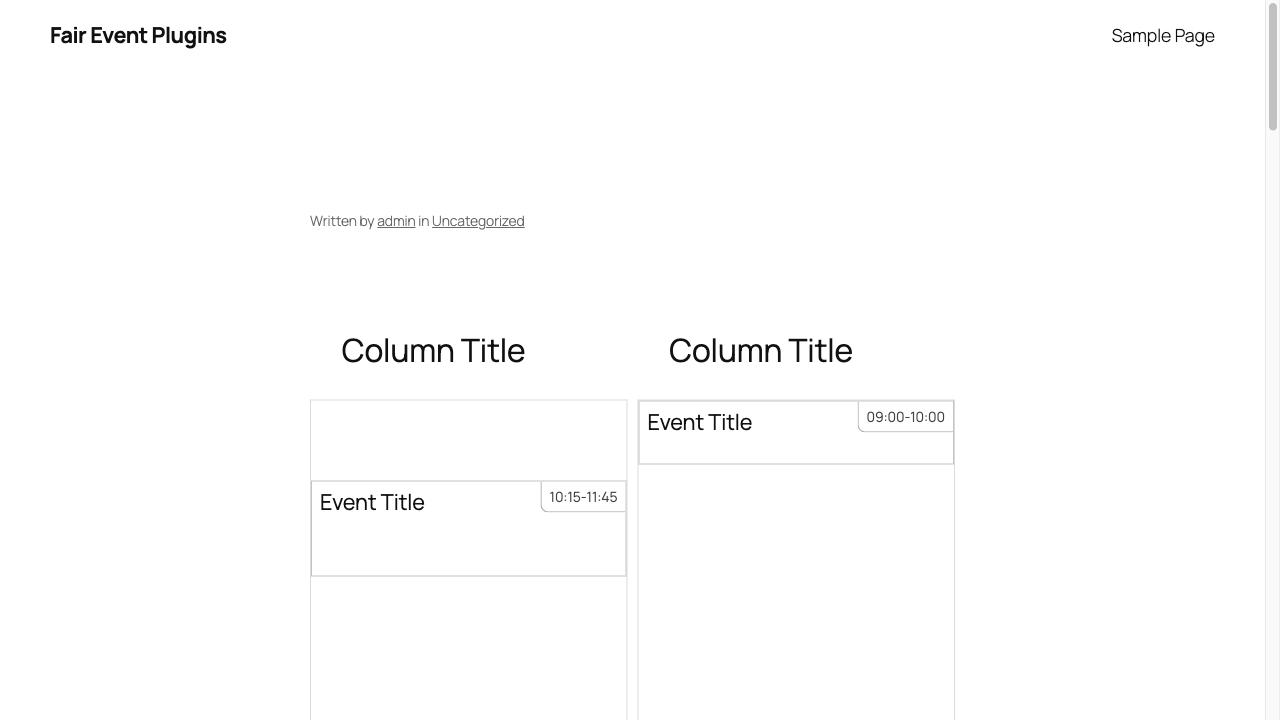
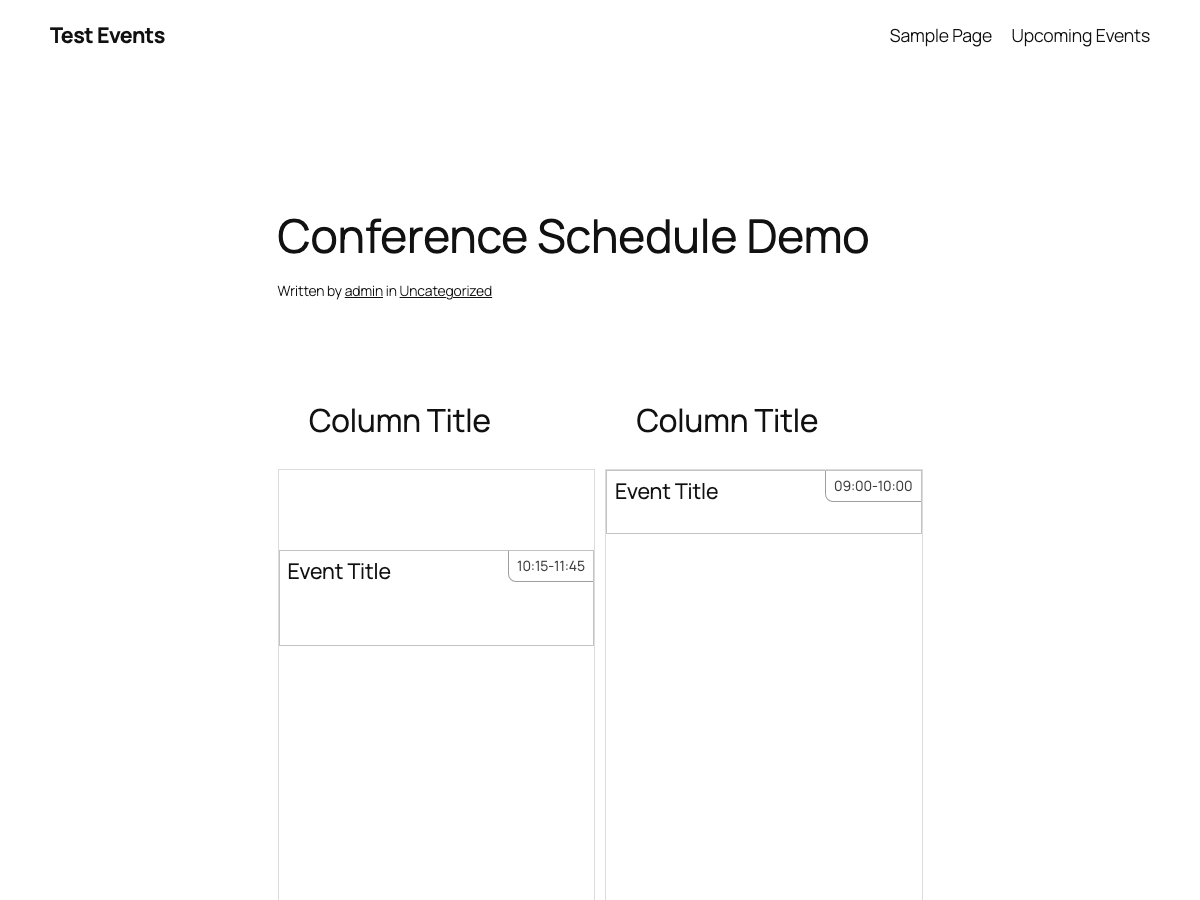
Align fair-timetable screenshot script with fair-events conventions
Scope npm run screenshots to the wordpress-org spec (headless) instead of
running the whole e2e suite headed. Rewrite the spec with the same
apiFetch/hideAdminChrome/idempotent-cleanup helpers as fair-events, fix a
stale "select parent block" click and a clear()+fill() race that could save
an invalid time slot and 500 the /wp/v2/posts endpoint, and regenerate the
demo screenshots.

diff --git a/fair-timetable/e2e/wordpress-org.spec.js b/fair-timetable/e2e/wordpress-org.spec.js
@@ -1,45 +1,131 @@
 import { test, expect } from '@playwright/test';
 
-// WordPress admin credentials - update these for your test environment
 const WP_ADMIN_USER = process.env.WP_ADMIN_USER || 'admin';
 const WP_ADMIN_PASS = process.env.WP_ADMIN_PASS || 'password';
 
-test.describe('WordPress.org Screenshot for Fair Timetable', () => {
-	test.beforeEach(async ({ page }) => {
-		// Login to WordPress admin
-		await page.goto('/wp-admin');
+/**
+ * WordPress.org screenshots for fair-timetable.
+ *
+ * Creates a demo post, inserts a Timetable block (default template: 3
+ * columns, one time slot each), edits the first time slot to demonstrate the
+ * block-editing UX, then publishes and views it on the frontend.
+ *
+ * Output: assets/screenshot-1.png (editor), screenshot-2.png (frontend).
+ */
+
+const VIEWPORT = { width: 1200, height: 900 };
+const DEMO_TITLE = 'Conference Schedule Demo';
+
+/**
+ * Run @wordpress/api-fetch from inside an admin page so the request is
+ * authenticated and nonce'd automatically.
+ */
+async function apiFetch(page, options) {
+	const result = await page.evaluate(async (opts) => {
+		try {
+			// eslint-disable-next-line no-undef
+			const res = await wp.apiFetch(opts);
+			return { ok: true, data: res };
+		} catch (err) {
+			return {
+				ok: false,
+				error: {
+					message: err && err.message,
+					code: err && err.code,
+					data: err && err.data,
+					raw: JSON.stringify(err),
+				},
+			};
+		}
+	}, options);
+	if (!result.ok) {
+		throw new Error(
+			`apiFetch ${options.method || 'GET'} ${
+				options.path
+			} failed: ${JSON.stringify(result.error)}`
+		);
+	}
+	return result.data;
+}
+
+async function login(page) {
+	await page.goto('/wp-admin');
+	if (page.url().includes('wp-login.php')) {
 		await page.fill('#user_login', WP_ADMIN_USER);
 		await page.fill('#user_pass', WP_ADMIN_PASS);
 		await page.click('#wp-submit');
+	}
+	await page.waitForSelector('#wpadminbar');
+}
 
-		// Wait for dashboard to load
-		await page.waitForSelector('#wpadminbar');
+function logout(page) {
+	return page.context().clearCookies();
+}
+
+/** Hide noisy admin chrome (core-update banner, WP-CLI debug notices). */
+async function hideAdminChrome(page) {
+	await page.addStyleTag({
+		content: `
+			.update-nag,
+			.notice,
+			.update-message,
+			#wp-admin-bar-updates,
+			div.error,
+			div.updated { display: none !important; }
+		`,
 	});
+}
 
-	test('Timetable blocks in Gutenberg editor', async ({ page }) => {
-		// Create new post
+test.describe('WordPress.org screenshots for Fair Timetable', () => {
+	test('Generates editor + frontend screenshots from a demo timetable', async ({
+		page,
+	}) => {
+		test.setTimeout(180_000);
+
+		await page.setViewportSize(VIEWPORT);
+		await login(page);
+
+		// Land on an admin page that loads window.wp.apiFetch.
 		await page.goto('/wp-admin/post-new.php');
+		await page.waitForFunction(() => window.wp && window.wp.apiFetch);
 
-		// Wait for the block editor iframe to load
+		// Clean up any demo post from a prior run so re-runs stay deterministic.
+		const existing = await apiFetch(page, {
+			path: `/wp/v2/posts?search=${encodeURIComponent(
+				DEMO_TITLE
+			)}&status=any&per_page=20`,
+		});
+		for (const p of existing) {
+			await apiFetch(page, {
+				path: `/wp/v2/posts/${p.id}?force=true`,
+				method: 'DELETE',
+			}).catch(() => {});
+		}
+
+		// ---------- Build the demo post ----------
+
 		const editorFrame = page.frameLocator('[name="editor-canvas"]');
 		await editorFrame.locator('.block-editor-iframe__body').waitFor();
-
-		// Wait a bit for the editor to fully initialize
 		await page.waitForTimeout(2000);
 
-		// Add Timetable Container block via the main inserter
+		// Title.
+		await editorFrame
+			.getByRole('textbox', { name: 'Add title' })
+			.fill(DEMO_TITLE);
+
+		// Add Timetable Container block via the main inserter.
 		await page.getByRole('button', { name: 'Block Inserter' }).click();
 		await page.fill('.block-editor-inserter__search input', 'timetable');
 		await page.click(
 			'.block-editor-block-types-list__item:has-text("Timetable")'
 		);
 
-		// Wait for timetable container to be inserted in the iframe
+		// Wait for timetable container to be inserted in the iframe.
 		await editorFrame
 			.locator('.wp-block-fair-timetable-timetable')
 			.waitFor();
 
-		// Close the block inserter popup before editing time-slots
+		// Close the block inserter popup before editing time-slots.
 		const closeInserterButton = page.getByRole('button', {
 			name: 'Close Block Inserter',
 		});
@@ -48,55 +134,36 @@ test.describe('WordPress.org Screenshot for Fair Timetable', () => {
 			await page.waitForTimeout(500);
 		}
 
-		// Edit the first time-slot to start at 10:15
-		// Click on the first time-slot block within the timetable container
+		// Edit the first time-slot to start at 10:15, 1.5h long.
 		const firstTimeSlot = editorFrame
 			.locator('.wp-block-fair-timetable-time-slot')
 			.first();
-
 		await firstTimeSlot.waitFor();
 		await firstTimeSlot.click();
-
-		// Wait for the time-slot to be selected and block inspector to update
 		await page.waitForTimeout(1000);
 
-		// Click on the Time Slot parent selector button in the toolbar
-		await page.click(
-			'button.block-editor-block-parent-selector__button[aria-label="Select parent block: Time Slot"]'
-		);
-		await page.waitForTimeout(500);
-
-		// Look for the "Start Time" input using its specific attributes
 		const startTimeInput = page.locator(
 			'input.components-text-control__input[placeholder="09:00"]'
 		);
-
-		// Clear and set the start time to 10:15
-		await startTimeInput.clear();
 		await startTimeInput.fill('10:15');
-
-		// Select the dropdown by its select element
 		await page.selectOption(
 			'select.components-select-control__input',
 			'1.5'
 		);
+		await page.waitForTimeout(500); // Allow time for re-render.
 
-		await page.waitForTimeout(500); // Allow time for re-render
+		// ---------- 1. Editor screenshot ----------
 
-		// Take screenshot-1 of the editor with timetable blocks (full viewport)
+		await hideAdminChrome(page);
 		await page.screenshot({
 			path: 'assets/screenshot-1.png',
 			fullPage: false,
 		});
 
-		// Save/publish the page - use the exact publish button
-		const publishButton = page.getByRole('button', {
-			name: 'Publish',
-			exact: true,
-		});
-		await publishButton.click();
-
-		// Handle publish panel if it appears
+		// Publish.
+		await page
+			.getByRole('button', { name: 'Publish', exact: true })
+			.click();
 		await page.waitForTimeout(1000);
 		const finalPublishButton = page
 			.getByLabel('Editor publish')
@@ -105,48 +172,18 @@ test.describe('WordPress.org Screenshot for Fair Timetable', () => {
 			await finalPublishButton.click();
 		}
 
-		// Wait for page to be saved
-		await page.waitForTimeout(2000);
-
-		// Get the post URL for viewing
 		const viewLink = page
 			.getByLabel('Editor publish')
 			.getByRole('link', { name: 'View Post' });
-		let postUrl = '';
-		if (await viewLink.isVisible()) {
-			postUrl = await viewLink.getAttribute('href');
-		}
+		await expect(viewLink).toBeVisible({ timeout: 15_000 });
+		const postUrl = await viewLink.getAttribute('href');
 
-		// Log out from admin first
-		await page.goto('/wp-admin/');
-		const logoutLink = page.locator(
-			'a[href*="wp-login.php?action=logout"]'
-		);
-		if (await logoutLink.isVisible()) {
-			await logoutLink.click();
-			await page.waitForTimeout(1000);
-		} else {
-			// Fallback: clear cookies and session
-			await page.context().clearCookies();
-		}
+		// ---------- 2. Frontend screenshot (logged out) ----------
 
-		// Navigate to frontend view (non-admin)
-		if (postUrl) {
-			await page.goto(postUrl);
-		} else {
-			// Fallback: try to navigate to the homepage and find the post
-			await page.goto('/');
-		}
-
-		// Wait for page to load without admin bar
-		await page.waitForTimeout(3000);
-
-		// Wait for frontend to load completely
-		await page.waitForFunction(() => {
-			return document.readyState === 'complete';
-		});
-
-		// Take screenshot-2 of the frontend view (full viewport)
+		await logout(page);
+		await page.goto(postUrl);
+		await page.waitForLoadState('networkidle');
+		await page.waitForTimeout(800);
 		await page.screenshot({
 			path: 'assets/screenshot-2.png',
 			fullPage: false,